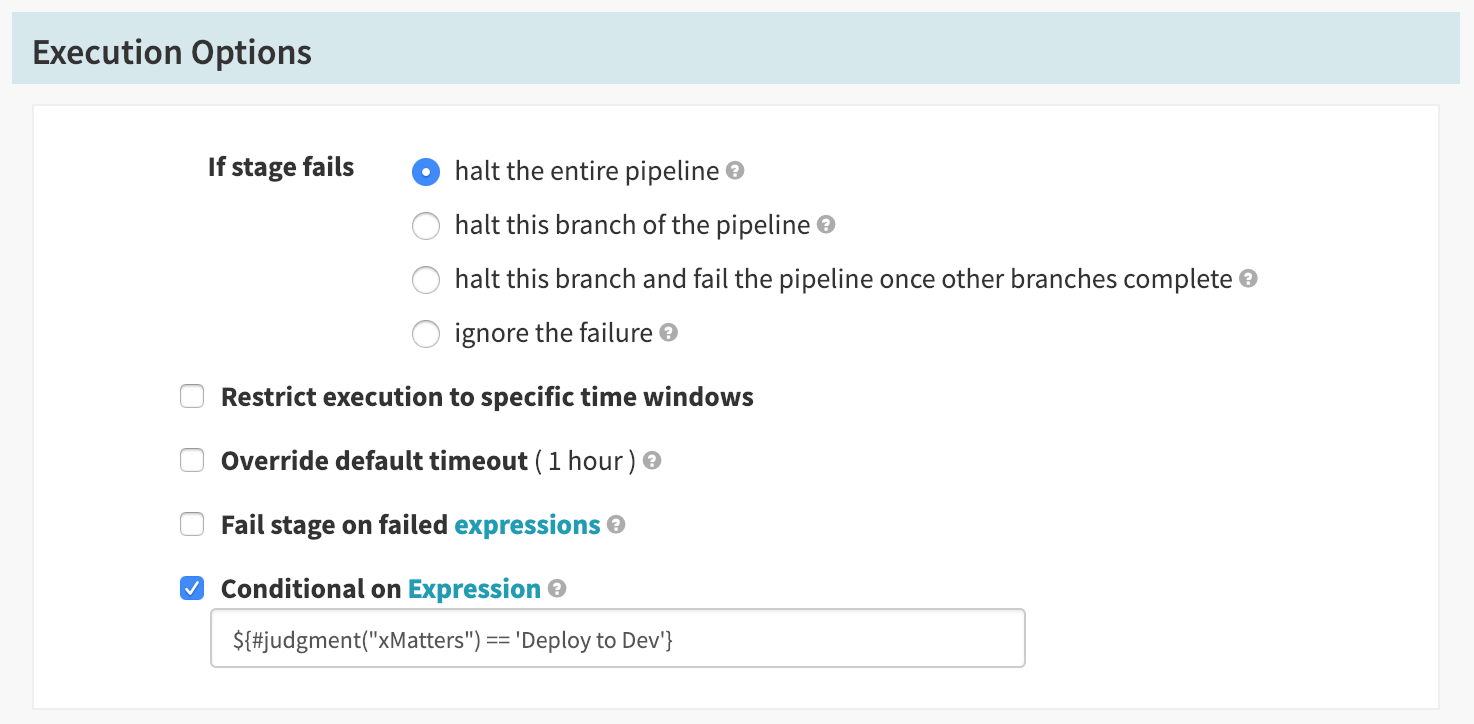
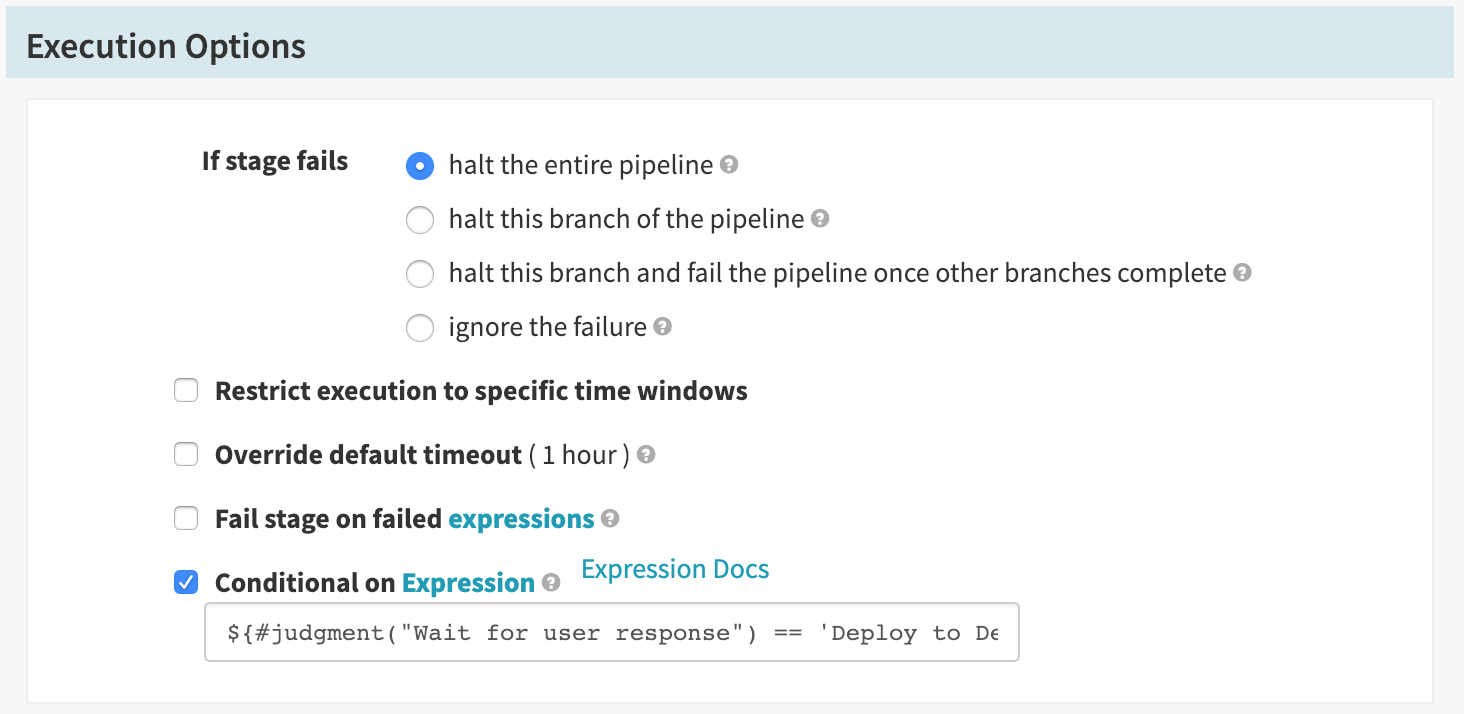
Update images

diff --git a/README.md b/README.md
@@ -115,7 +115,7 @@ The contents of the stage are not important for this example, you can use any sp
 ![Deploy to Test](./media/deploy_test.png)
 
 Conditional on Expression:
-`${#judgment("xMatters") == 'Deploy to Test'}`
+`${#judgment("Wait for user response") == 'Deploy to Test'}`
 ![Deploy Test Conditional](./media/depends_on_test.png)
 
 There you have it, a simple integration that you can make as complicated as you desire! Happy integrating :)
